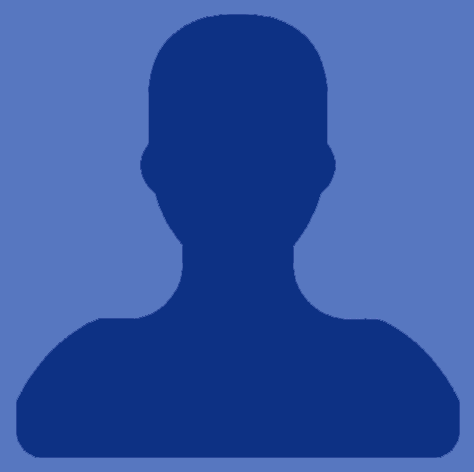
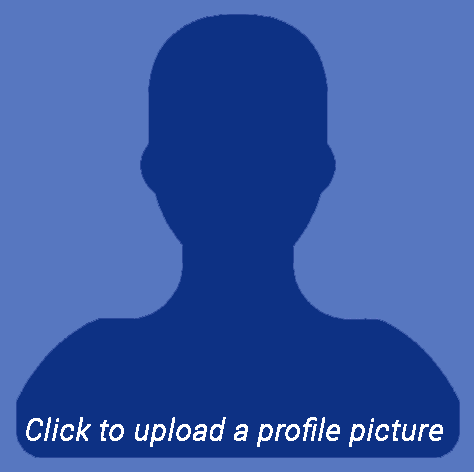
changes
new changes

Changed region(s): [[0.0591, 0.8602, 0.9451, 0.9492]]

diff --git a/kDramaCrazeCreateEvent.html b/kDramaCrazeCreateEvent.html
@@ -12,12 +12,13 @@
 
 <br/>
 
-<img style="position: absolute; z-index: 5; max-width: 80%; left:10%;" src="./img/koreandrama.JPG"/>
+<center><img style="max-width: 80%; left:10%;" src="./img/koreandrama.JPG"/></center>
 <br/>
 
 
+
 <center>
-    <div class="container-input" style="background-color: white;padding:1em; margin:0; margin-top: 12em; font-size: 18px" ng-controller="japaneseCooksController">
+    <div class="container-input" style="background-color: white;padding:1em; margin:0; font-size: 18px" ng-controller="japaneseCooksController">
 
         <div class="col-xs-4" style="padding: 0;">
             <button id="groupinfo-button" class="btn btn-primary sign-in-button" ng-click="showGroupInfo()">
@@ -71,8 +72,8 @@
                         <p class="read-more-wrap" style="margin-bottom: 0;">
                             <span style="font-weight: bold; font-size: 20px; display: inline-block;">
                                 Love 911 Movie Session
-                                <button class="btn" style="display: inline-block;padding-left:15px;background-color: #009898;"
-                                        onclick="alert('This fucntion is not implemented')"> Join </button>
+                                <button class="btn" style="display: inline-block;padding-left:15px;background-color: darkblue;"
+                                        onclick="alert('This fucntion is not implemented')"> Delete </button>
                             </span>
                             <br/>
                             <br/><strong>Interests: </strong> Movie, Romance, Story, Tea, Popcorn

diff --git a/signup2.html b/signup2.html
@@ -57,15 +57,10 @@
 
 <br/>
 
-<div style="height: 45%; padding-left: 2.5em;">
-    <div style="z-index: auto;">
-        <img style="position: absolute; z-index: 5; max-width: 80%;" src="./img/user.png" onclick="alert('This function is not implemented')"/>
-        <span style="position: absolute; z-index: 10; top:50%; font-size: 18px; font-style: italic; color: white; padding-left: 1em;">Click to upload your profile pic</span>
-    </div>
-    <br/>
-</div>
+<center><img style="max-width: 80%;" src="./img/user.png" onclick="alert('This function is not implemented')"/></center>
 
-<div class="container-input" style="background-color: white;padding:1em; margin:0; margin-top: 1em; font-size: 18px">
+
+<div class="container-input" style="background-color: white;padding:1em; margin:0; font-size: 18px">
 
     <center><div class="loginError">{{errorMsg}}</div></center>
 

diff --git a/createCommunity.html b/createCommunity.html
@@ -12,15 +12,10 @@
 
 <br/>
 
-<div style="height: 45%; padding-left: 2.5em;">
-    <div style="z-index: auto;">
-        <img style="position: absolute; z-index: 5; max-width: 80%;" src="./img/groupuser.png"/>
-        <span style="position: absolute; z-index: 10; top:50%; font-size: 18px; font-style: italic; color: white; padding-left: 1em;">Click to upload your profile pic</span>
-    </div>
-    <br/>
-</div>
+<center><img style="max-width: 80%;" src="./img/groupuser.png" onclick="alert('This function is not implemented')"/></center>
 
-<div class="container-input" style="background-color: white;padding:1em; margin:0; font-size: 18px; padding-top: 80%;">
+
+<div class="container-input" style="background-color: white;padding:1em; margin:0; font-size: 18px;">
 
     <div class="left-inner-addon">
         <i class="fa fa-users"></i>

diff --git a/japaneseCooks.html b/japaneseCooks.html
@@ -12,12 +12,12 @@
 
 <br/>
 
-<img style="position: absolute; z-index: 5; max-width: 80%; left:10%;" src="./img/japanesefood.jpg"/>
+<center><img style="max-width: 80%; left:10%;" src="./img/japanesefood.jpg"/></center>
 <br/>
 
 
 <center>
-    <div class="container-input" style="background-color: white;padding:1em; margin:0; margin-top: 12em; font-size: 18px" ng-controller="japaneseCooksController">
+    <div class="container-input" style="background-color: white;padding:1em; margin:0; font-size: 18px" ng-controller="japaneseCooksController">
 
         <div class="col-xs-4" style="padding: 0;">
             <button id="groupinfo-button" class="btn btn-primary sign-in-button" ng-click="showGroupInfo()">

diff --git a/japaneseCooksJoined.html b/japaneseCooksJoined.html
@@ -12,12 +12,12 @@
 
 <br/>
 
-<img style="position: absolute; z-index: 5; max-width: 80%; left:10%;" src="./img/japanesefood.jpg"/>
+<center><img style="max-width: 80%; left:10%;" src="./img/japanesefood.jpg"/></center>
 <br/>
 
 
 <center>
-    <div class="container-input" style="background-color: white;padding:1em; margin:0; margin-top: 12em; font-size: 18px" ng-controller="japaneseCooksController">
+    <div class="container-input" style="background-color: white;padding:1em; margin:0; font-size: 18px" ng-controller="japaneseCooksController">
 
         <div class="col-xs-4" style="padding: 0;">
             <button id="groupinfo-button" class="btn btn-primary sign-in-button" ng-click="showGroupInfo()">

diff --git a/kDramaCraze.html b/kDramaCraze.html
@@ -12,12 +12,11 @@
 
 <br/>
 
-<img style="position: absolute; z-index: 5; max-width: 80%; left:10%;" src="./img/koreandrama.JPG"/>
+<center><img style="max-width: 80%; left:10%;" src="./img/koreandrama.JPG"/></center>
 <br/>
 
-
 <center>
-    <div class="container-input" style="background-color: white;padding:1em; margin:0; margin-top: 12em; font-size: 18px" ng-controller="japaneseCooksController">
+    <div class="container-input" style="background-color: white;padding:1em; margin:0; font-size: 18px" ng-controller="japaneseCooksController">
 
         <div class="col-xs-4" style="padding: 0;">
             <button id="groupinfo-button" class="btn btn-primary sign-in-button" ng-click="showGroupInfo()">

diff --git a/myProfile.html b/myProfile.html
@@ -8,8 +8,8 @@
 <br/>
 
 <div style="height: 45%; padding-left: 4em;">
-    <div style="z-index: auto;">
-        <img style="position: absolute; z-index: 5; max-width: 70%;" src="./img/timmygoh.jpg"/>
+    <div style="z-index: auto; position: relative;">
+        <img style="position: absolute; z-index: 5; max-width: 80%;" src="./img/timmygoh.jpg"/>
         <span style="position: absolute; z-index: 10; top:11%; right: 3%;">
             <a ng-href="#/editMyProfile">
                 <button class="btn btn-primary sign-in-button" style="background-color: #FEA900; width:100%;">

diff --git a/index.html b/index.html
@@ -51,7 +51,7 @@
         <!--Navigation bar at footer-->
         <div class="footer" id="footer-template" ng-controller="navigationBarBottom">
                 <a ng-href="#/exploreBuddy">
-                    <div id="footer-navbar-icons1" ng-click="explore()">
+                    <div id="footer-navbar-icons1" ng-click="explore()" style="color: darkorange">
                         <i class="fa fa-user "></i>
                     </div>
                 </a>

diff --git a/createEvent.html b/createEvent.html
@@ -40,7 +40,7 @@
     <br/>
     <br/>
 
-    <a ng-href="#/japaneseCooks">
+    <a ng-href="#/japaneseCooksJoined">
         <button id="general-button" class="btn btn-primary sign-in-button" onclick="alert('This function is not implemented for Japanese Cooks group')"> CREATE A NEW EVENT </button>
     </a>
 
